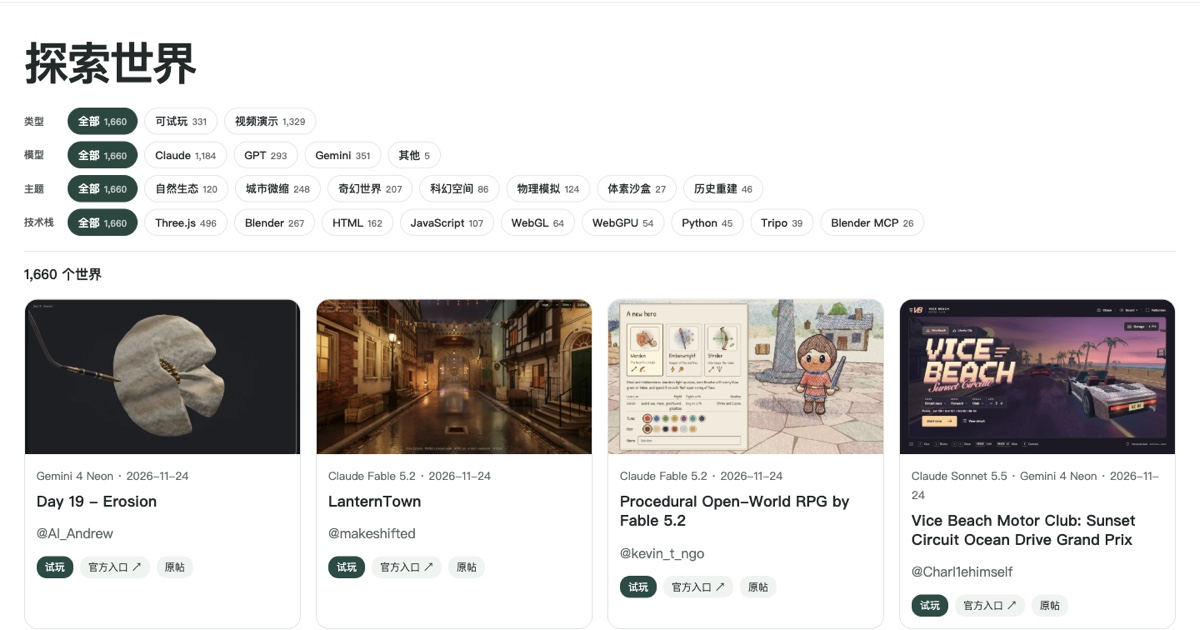
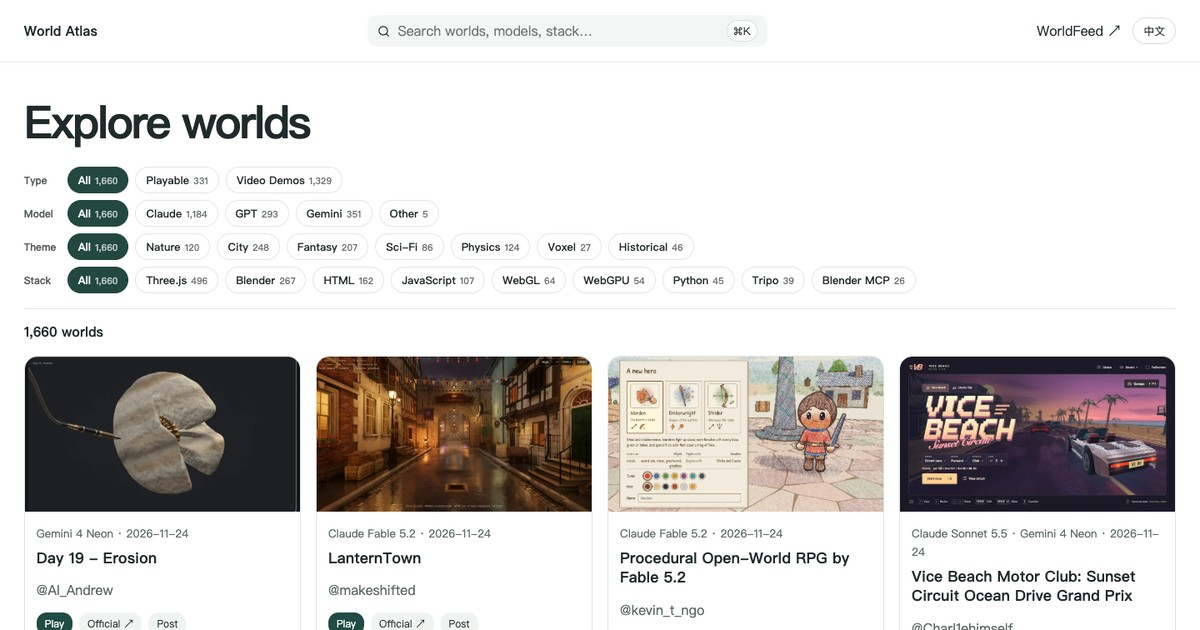
Update README screenshots and 1200x630 OG share cards to default English UI

diff --git a/README.zh-CN.md b/README.zh-CN.md
@@ -6,7 +6,7 @@
 
 **[▶ 打开 WorldFeed（全屏试玩流）](https://worldfeed.zeshentian1.chatgpt.site/)** · **[浏览生成世界图鉴（1,660 个世界）](https://generated-worlds-atlas.zeshentian1.chatgpt.site/)** · **[前沿趋势报告](reports/frontier_trends_report.md)** · **[公开数据（JSON）](data/exports/ai_worlds.json)**
 
-![WorldFeed 全屏实玩画面](reports/live/worldfeed-topbar-desktop.png)
+![WorldFeed 全屏实玩画面](reports/live/worldfeed-topbar-desktop-zh.png)
 
 ---
 
@@ -17,7 +17,7 @@
 | **[WorldFeed](https://worldfeed.zeshentian1.chatgpt.site/)**（`feed/`） | 极简零遮挡全屏 3D 试玩流。每次切换直接挂载可交互的实时 3D 画布，支持 `↑`/`↓` 或顶栏滚轮切世界、`L` 点赞、`G` 直达作者原站、`O` 查看原帖。 | **223** 个可站内直玩世界（2 个开源同源镜像 + 221 个实时嵌入） |
 | **[生成世界图鉴](https://generated-worlds-atlas.zeshentian1.chatgpt.site/)**（`platform/`） | 全横屏纯静态目录，支持全文检索以及按「可试玩 / 视频演示」、模型（`Claude` / `GPT` / `Gemini` / `其他`）、主题和技术栈筛选。可站内试玩的作品直达 WorldFeed，同时保留作者官方入口与原帖。 | **1,660** 个前沿世界（**331** 个在线试玩 · **1,329** 个视频/代码 3D 演示 · 98.3% 含封面） |
 
-![生成世界图鉴首页](reports/live/atlas-grid-desktop.png)
+![生成世界图鉴首页](reports/live/atlas-grid-desktop-zh.png)
 
 ---
 
